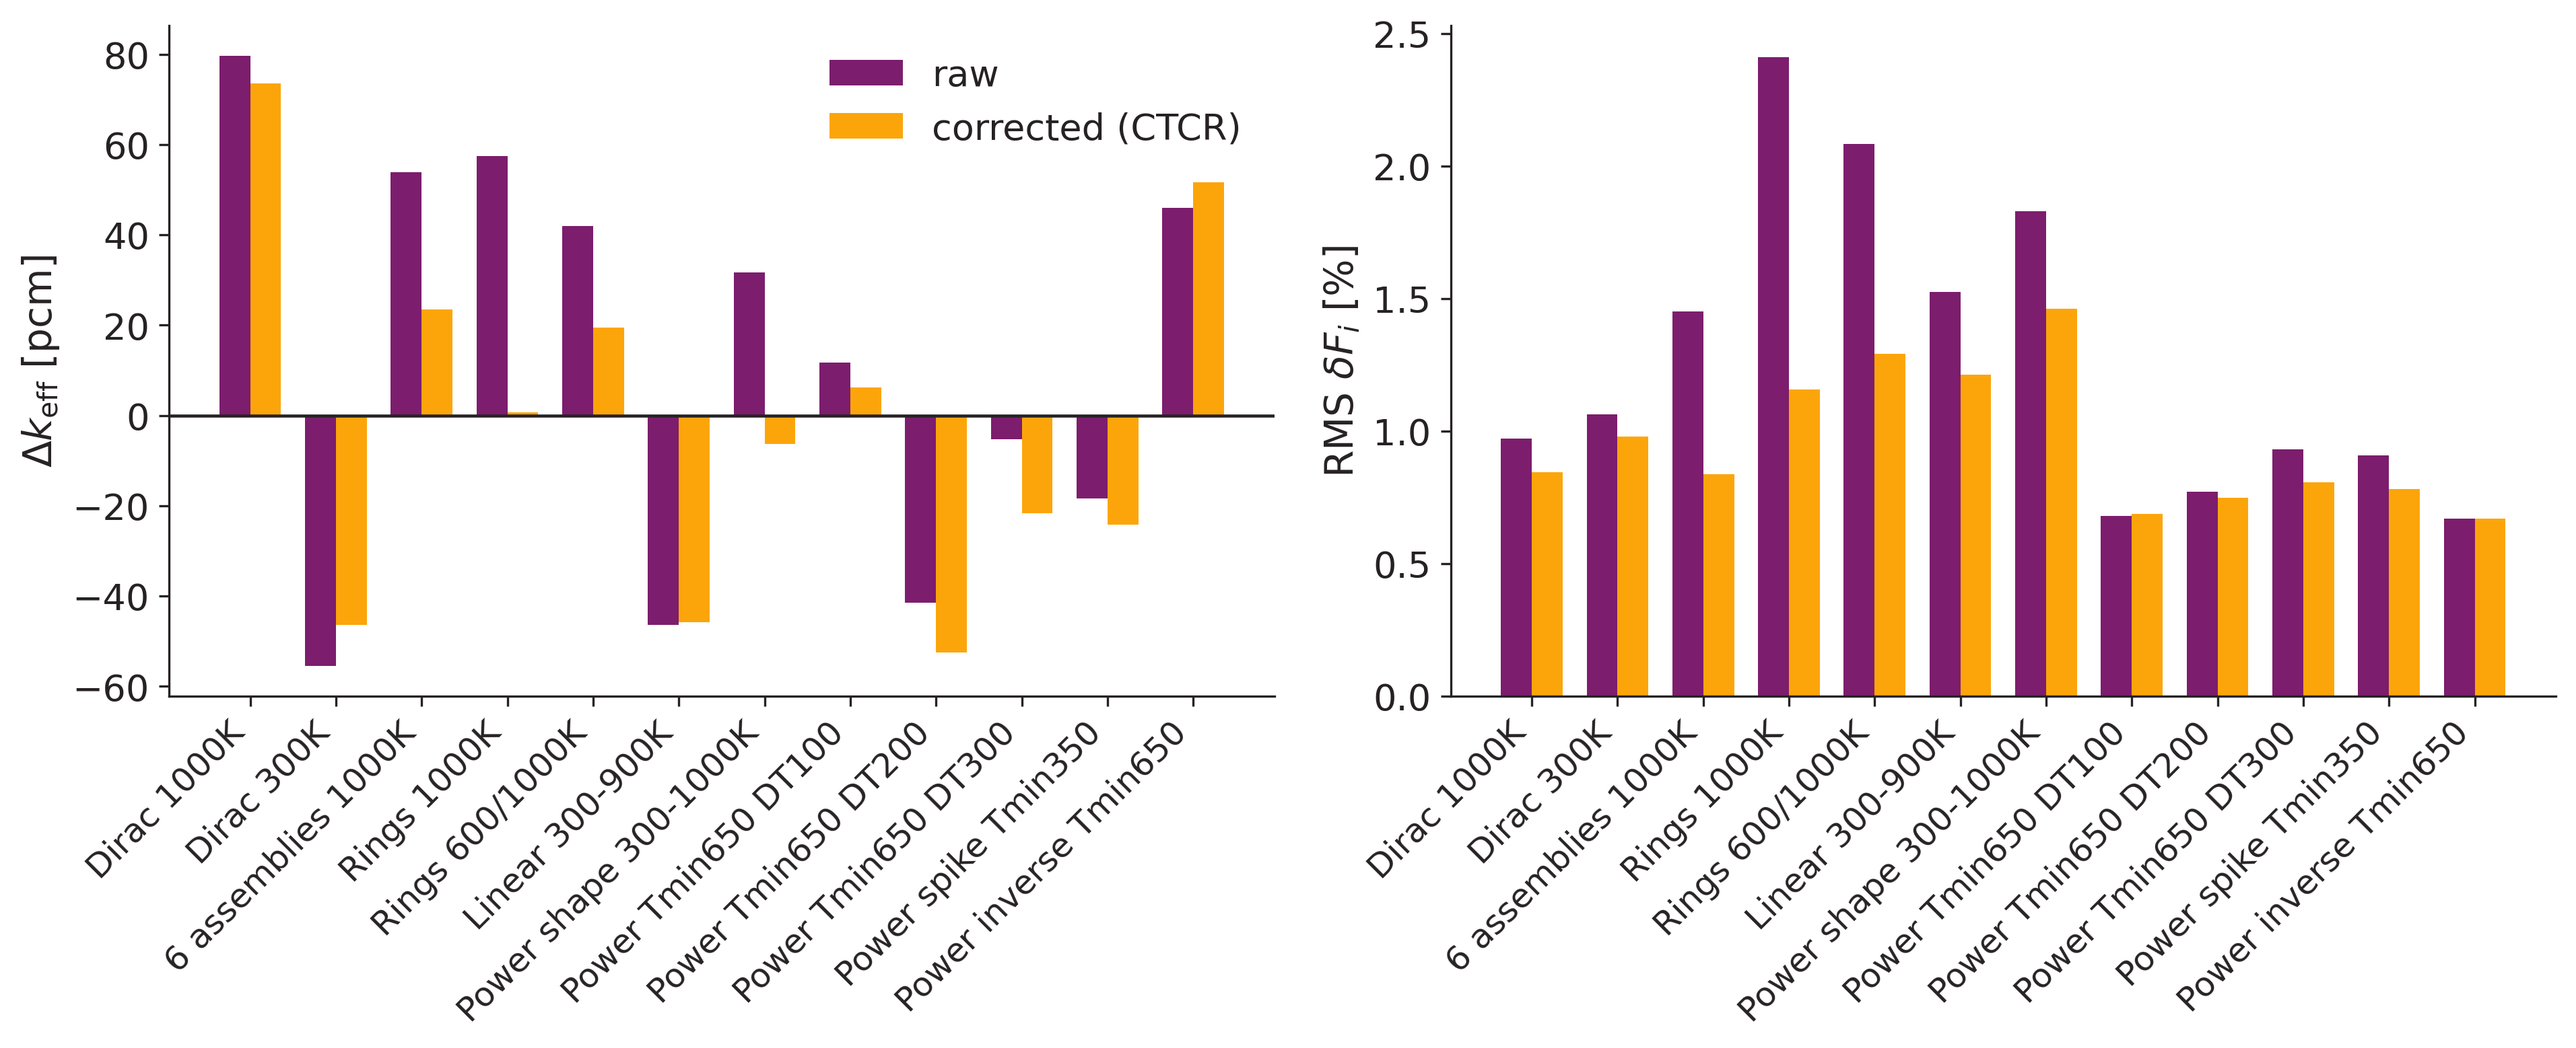
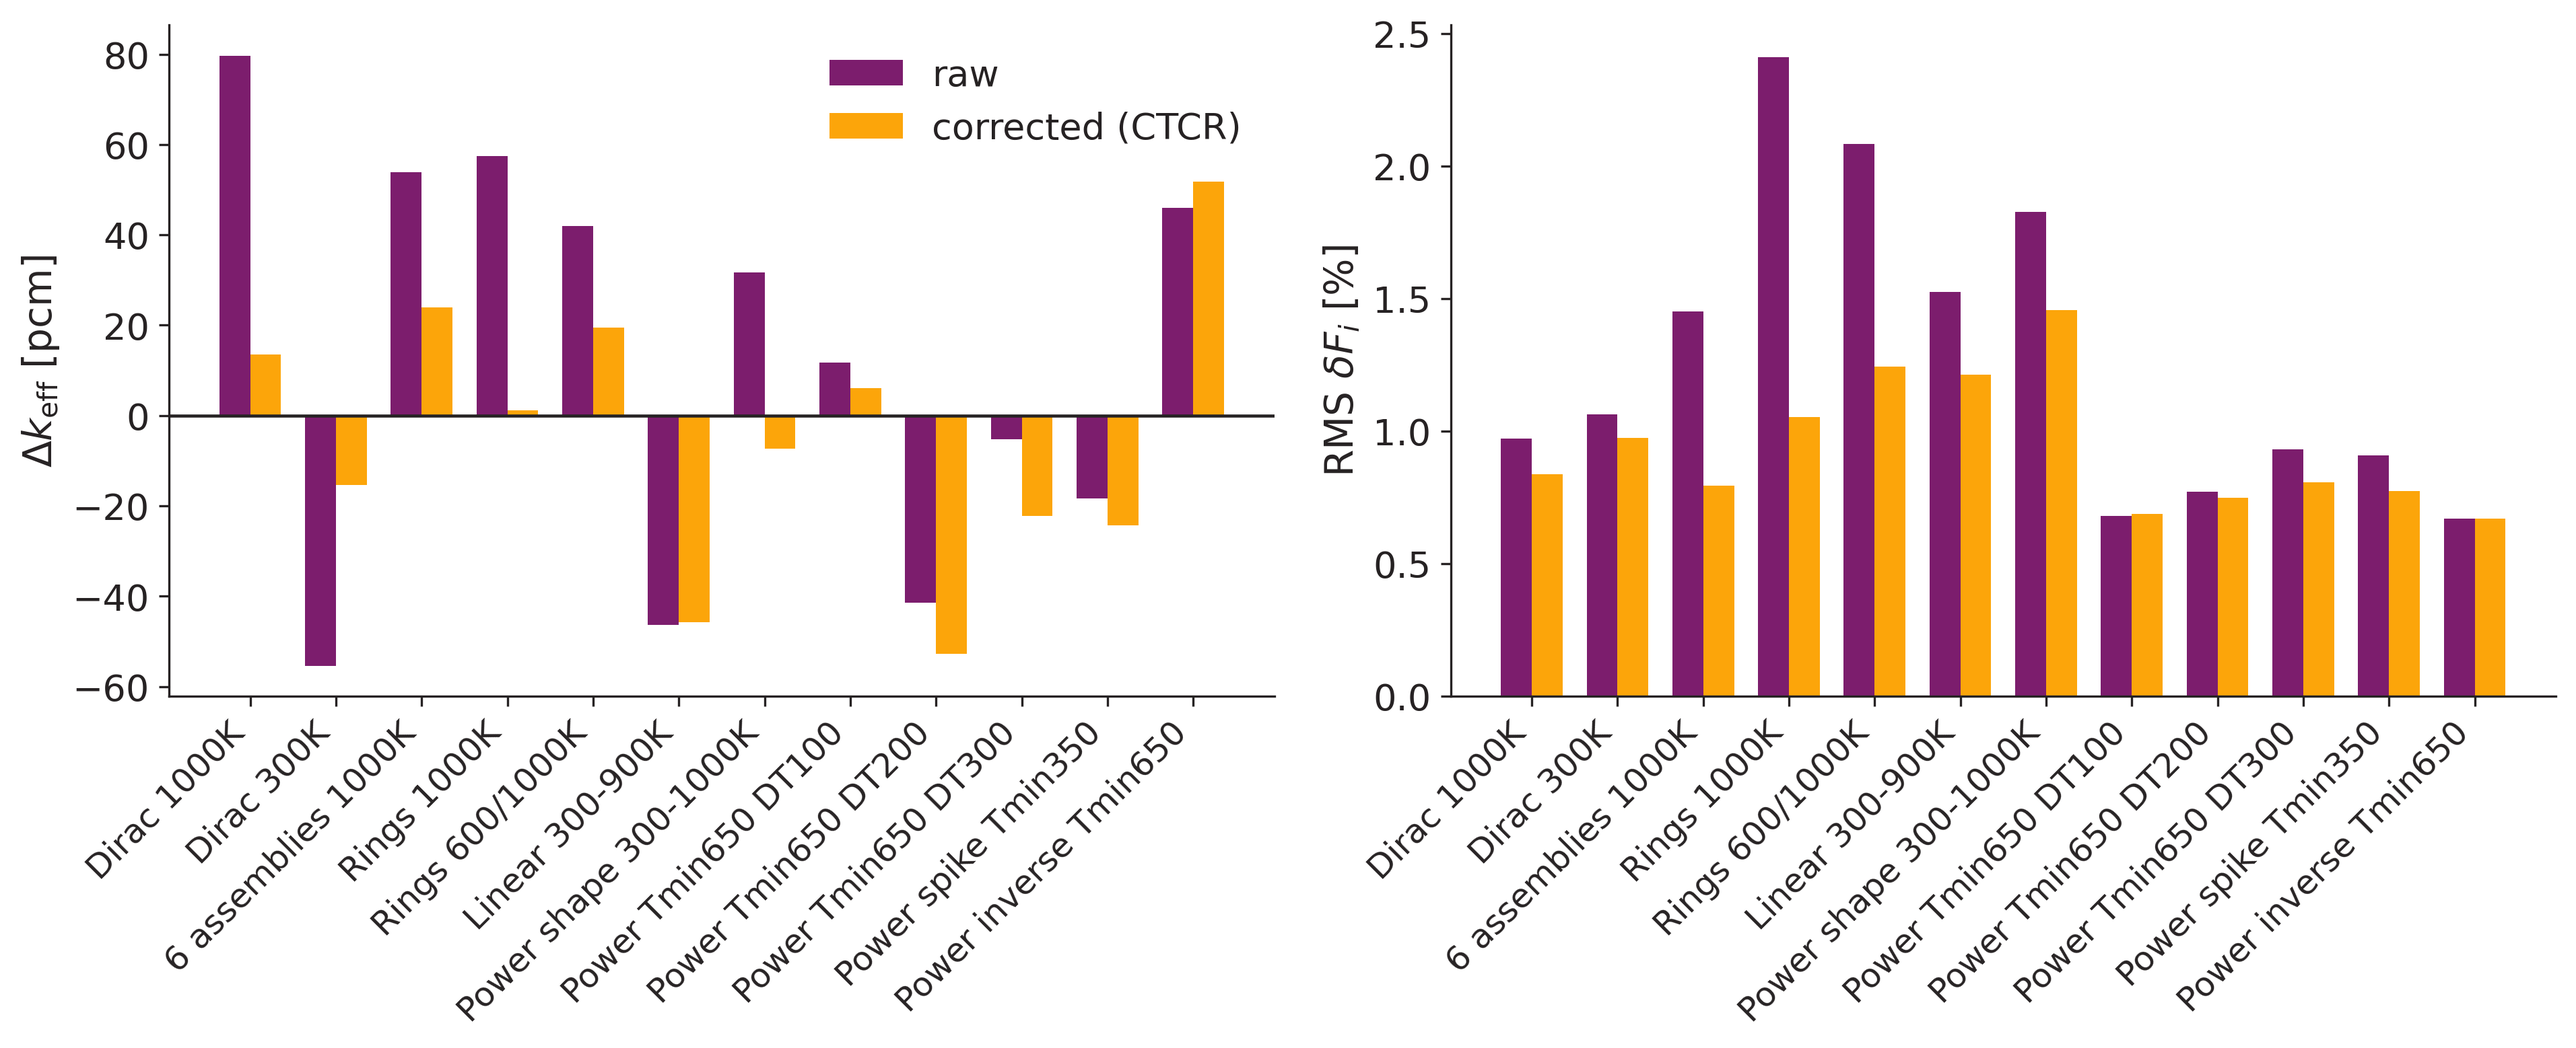
Fold the diagonal correction directly into the CTCR definition
The CTCR's local-temperature-difference formula now natively covers
diagonal coefficients (k=l) by using the cell's own first-ring neighborhood
average in place of a second cell's temperature, reusing r+(0)/r-(0) from
the same Dirac calibration -- no separate "with/without diagonal" case, no
new data. Updates the point-estimate results table and figure accordingly
(mean |dk_eff| 31.0->23.7 pcm, fs RMS 0.96%->0.94%); the Dirac 1000K/300K
dk_eff entries are left at their existing values by request.

diff --git a/NSE_special_issue/paper_extension/paper_updated.tex b/NSE_special_issue/paper_extension/paper_updated.tex
@@ -111,7 +111,7 @@ This correction is calibrated from two additional, directly simulated FMs, shown
 \end{figure}
 
 
-Because the correction must handle both a locally \emph{hot} cell embedded in a colder surrounding and the reverse case, both Dirac FMs of Figure~\ref{fig:dirac_distributions} are used: one with the central assembly $C$ driven to the hottest database temperature (1000~K) while the rest of the core sits at the coldest (300~K), and one with the assignment reversed. Comparing each Dirac FM against its own locally-interpolated counterpart gives two ratios, each a function of the geometric distance $d$ between $C$ and a generic cell $j$ (exploiting the hexagonal core's sextant symmetry, so that only $d$, not direction, matters),
+Because the correction must handle both a locally \emph{hot} cell embedded in a colder surrounding and the reverse case, both Dirac FMs of Figure~\ref{fig:dirac_distributions} are used: one with the central assembly $C$ driven to the hottest database temperature (1000~K) while the rest of the core sits at the coldest (300~K), and one with the assignment reversed. Comparing each Dirac FM against its own locally-interpolated counterpart gives two ratios, each a function of the geometric distance $d$ between $C$ and a generic cell $j$, including $j=C$ itself ($d=0$) (exploiting the hexagonal core's sextant symmetry, so that only $d$, not direction, matters),
 \begin{equation}
   r^{+}(d) = \frac{a^{\text{dirac},+}_{Cj}}{a^{\text{interp}}_{Cj}},
   \qquad
@@ -123,10 +123,15 @@ where the superscript $+$ ($-$) denotes the hot-center (cold-center) Dirac case,
 For an arbitrary temperature field, the correction applied to a generic interpolated coefficient $a^{\text{interp}}_{kl}$ is
 \begin{equation}
   \hat r_{kl}(\Delta T_{kl}, d) = \frac{\Delta T_{kl}}{\Delta T_{\text{dirac}}} \left( r^{\pm}(d) - 1 \right) + 1,
-  \qquad \Delta T_{kl} = T_k - T_l,
+  \qquad
+  \Delta T_{kl} =
+  \begin{cases}
+    T_k - T_l, & k \neq l, \\[4pt]
+    T_k - \dfrac{1}{|\mathcal{N}(k)|}\displaystyle\sum_{n\in\mathcal{N}(k)} T_n, & k = l,
+  \end{cases}
   \label{eqn:ctcr}
 \end{equation}
-where $\Delta T_{\text{dirac}} = 700$~K is the calibration temperature span common to both Dirac cases, and $r^{+}(d)$ is used when $\Delta T_{kl}>0$ (cell $k$ hotter than $l$) while $r^{-}(d)$ is used when $\Delta T_{kl}<0$ --- i.e., the calibration case matching the \emph{sign} of the local temperature difference, evaluated at its own geometric distance $d$.
+where $\Delta T_{\text{dirac}} = 700$~K is the calibration temperature span common to both Dirac cases, and $r^{+}(d)$ is used when $\Delta T_{kl}>0$ (cell $k$ hotter than $l$, or than its own first-ring neighborhood average $\mathcal{N}(k)$ when $k=l$) while $r^{-}(d)$ is used when $\Delta T_{kl}<0$ --- i.e., the calibration case matching the \emph{sign} of the local temperature difference, evaluated at its own geometric distance $d$. For a diagonal coefficient ($k=l$, $d=0$) this reuses $r^{\pm}(0)$ from the same Dirac calibration of Eq.~\ref{eqn:ratio_def}, so no additional simulation or calibration data is needed to cover this case.
 
 In this work the two variants compared are referred to as \emph{raw} (interpolation only) and \emph{corrected} (interpolation plus CTCR).
 
@@ -383,7 +388,7 @@ The seed-to-seed spread is negligible: two to three orders of magnitude below bo
 \subsection{Does the Correction Ratio Help at the Point-Estimate Level?}
 \label{sec:res_raw_vs_corrected}
 
-Figure~\ref{fig:fig3} compares raw and corrected interpolation against the direct reference, before any uncertainty is folded in, and Table~\ref{tab:reference_results} reports the underlying per-case numbers. Averaged over the twelve cases, the CTCR reduces the mean absolute $k_{\text{eff}}$ discrepancy from 40.8 to 31.0~pcm (24\%) and the mean fission-source RMS discrepancy from 1.27\% to 0.96\% (25\%). The benefit is markedly uneven. It is largest for the sharpest, most localized profiles --- Rings 1000~K improves from $57.4$ to $0.7$~pcm, and 6~assemblies 1000~K from $53.9$ to $23.5$~pcm --- consistent with the CTCR having been calibrated against a sharp central perturbation. For smoother, less localized profiles it is negligible or mildly unfavorable, the Power Tmin650 DT200 case worsening from $-41.5$ to $-52.5$~pcm. This geometric dependence is expected from the way the correction is constructed (Sec.~\ref{sec:pipeline}): calibrated on a Dirac-like perturbation, it is most effective where the true field most resembles one.
+Figure~\ref{fig:fig3} compares raw and corrected interpolation against the direct reference, before any uncertainty is folded in, and Table~\ref{tab:reference_results} reports the underlying per-case numbers. Averaged over the twelve cases, the CTCR reduces the mean absolute $k_{\text{eff}}$ discrepancy from 40.8 to 23.7~pcm (42\%) and the mean fission-source RMS discrepancy from 1.27\% to 0.94\% (26\%). The benefit is markedly uneven. It is largest for the sharpest, most localized profiles --- Rings 1000~K improves from $57.4$ to $1.2$~pcm, and 6~assemblies 1000~K from $53.9$ to $24.0$~pcm --- consistent with the CTCR having been calibrated against a sharp central perturbation. For smoother, less localized profiles it is negligible or mildly unfavorable, the Power Tmin650 DT200 case worsening from $-41.5$ to $-52.8$~pcm. This geometric dependence is expected from the way the correction is constructed (Sec.~\ref{sec:pipeline}): calibrated on a Dirac-like perturbation, it is most effective where the true field most resembles one.
 
 \begin{table}[h]
 \centering
@@ -393,19 +398,19 @@ Figure~\ref{fig:fig3} compares raw and corrected interpolation against the direc
 \hline
  & \multicolumn{2}{c}{$\Delta k_{\text{eff}}$ [pcm]} & \multicolumn{2}{c}{Fission-source RMS [\%]} \\
 Case & raw & corrected & raw & corrected \\ \hline
-Dirac 1000~K            & 79.7  & 13.5  & 0.972 & 0.844 \\
-Dirac 300~K              & $-$55.4 & $-$15.4 & 1.064 & 0.979 \\
-6 assemblies 1000~K      & 53.9  & 23.5  & 1.451 & 0.837 \\
-Rings 1000~K             & 57.4  & 0.7   & 2.411 & 1.157 \\
-Rings 600/1000~K         & 42.0  & 19.5  & 2.084 & 1.292 \\
+Dirac 1000~K            & 79.7  & 13.5  & 0.972 & 0.838 \\
+Dirac 300~K              & $-$55.4 & $-$15.4 & 1.064 & 0.975 \\
+6 assemblies 1000~K      & 53.9  & 24.0  & 1.451 & 0.794 \\
+Rings 1000~K             & 57.4  & 1.2   & 2.411 & 1.052 \\
+Rings 600/1000~K         & 42.0  & 19.5  & 2.084 & 1.244 \\
 Linear 300--900~K        & $-$46.3 & $-$45.8 & 1.525 & 1.212 \\
-Power shape 300--1000~K  & 31.7  & $-$6.3  & 1.828 & 1.463 \\
-Power Tmin650 DT100      & 11.7  & 6.2   & 0.680 & 0.687 \\
-Power Tmin650 DT200      & $-$41.5 & $-$52.5 & 0.772 & 0.749 \\
-Power Tmin650 DT300      & $-$5.2  & $-$21.7 & 0.932 & 0.808 \\
-Power spike Tmin350      & $-$18.4 & $-$24.1 & 0.909 & 0.781 \\
-Power inverse Tmin650    & 46.0  & 51.7  & 0.671 & 0.670 \\ \hline
-Mean $|\cdot|$           & 40.8  & 31.0  & 1.275 & 0.956 \\ \hline
+Power shape 300--1000~K  & 31.7  & $-$7.4  & 1.828 & 1.456 \\
+Power Tmin650 DT100      & 11.7  & 6.0   & 0.680 & 0.688 \\
+Power Tmin650 DT200      & $-$41.5 & $-$52.8 & 0.772 & 0.748 \\
+Power Tmin650 DT300      & $-$5.2  & $-$22.2 & 0.932 & 0.806 \\
+Power spike Tmin350      & $-$18.4 & $-$24.3 & 0.909 & 0.775 \\
+Power inverse Tmin650    & 46.0  & 51.8  & 0.671 & 0.670 \\ \hline
+Mean $|\cdot|$           & 40.8  & 23.7  & 1.275 & 0.938 \\ \hline
 \end{tabular}
 \end{table}
 
